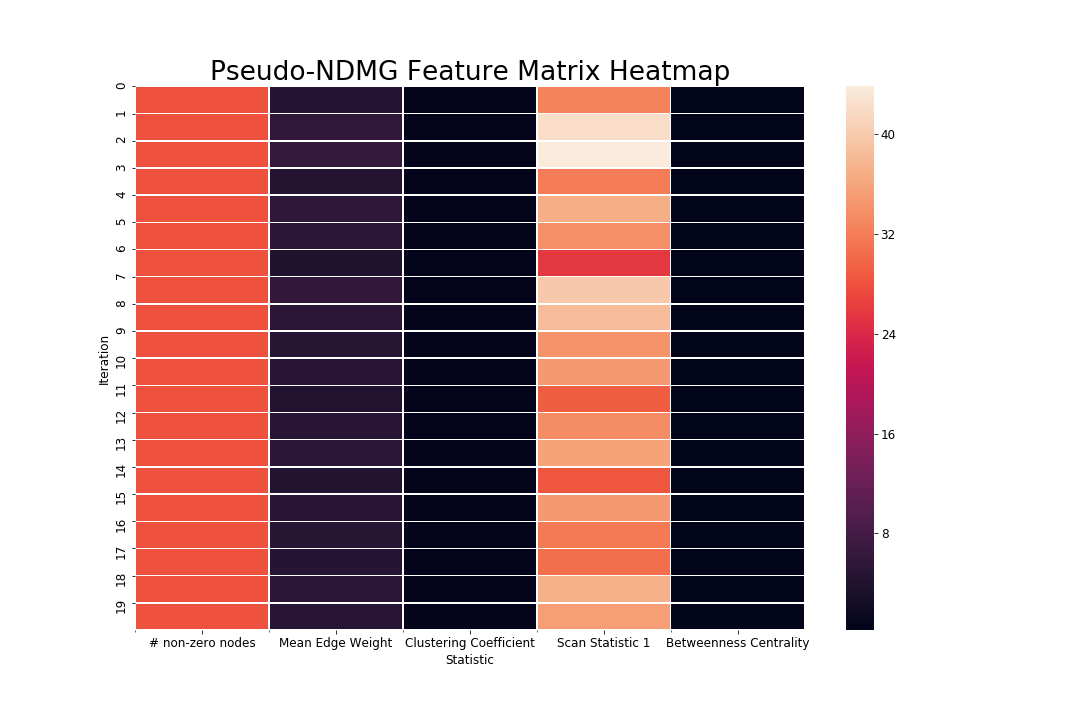
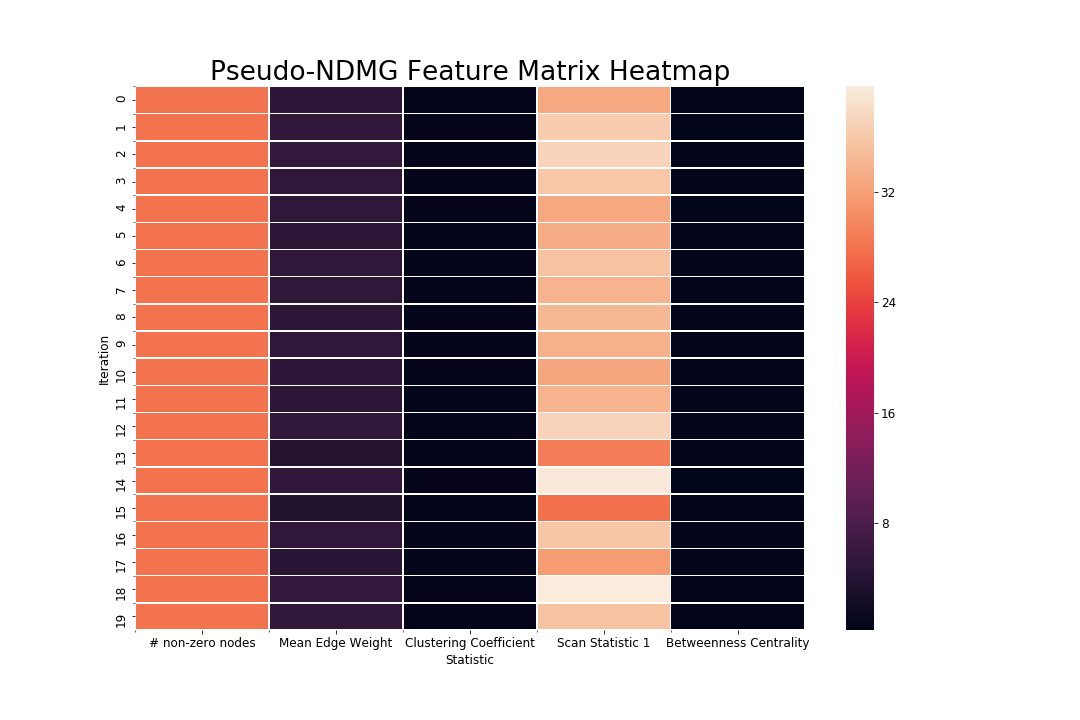
Added GraphStats class

diff --git a/graphStats.py b/graphStats.py
@@ -1,0 +1,243 @@
+#   Ganesh Arvapalli
+#   Create graph statistics class that can calculate common graph statistics
+#   Format graph statistics as numpy array (to be inserted into data matrix)
+#   (https://networkx.github.io/documentation/networkx-1.10/reference/algorithms.html)
+
+import networkx as nx
+import numpy as np
+
+class GraphStats():
+    def __init__(self, g_):
+        if len(g_.nodes()) == 0:
+            print("Empty graph input detected.")
+        else:
+            self.graph = g_
+            self.num_nodes = self.graph.order()
+            self.num_edges = self.graph.size()
+
+    def avg_degree(self):
+        # Average degree of nodes
+        return 1.0*self.num_edges/self.num_nodes
+
+    def max_degree(self):
+        # Maximum degree of graph
+        deg_seq = sorted([d for n, d in self.graph.degree()])
+        return max(deg_seq)
+
+    def avg_neighbor_degree(self):
+        # Average neightbor degree
+        andeg = nx.average_neighbor_degree(self.graph)
+        if len(andeg) != 0:
+            avg_andeg = sum(andeg.values())/len(andeg)
+        return avg_andeg
+
+    # This seems a little redundant compared to max_degree
+    def avg_neighbor_degree(self):
+        # Maximum neightbor degree
+        andeg = nx.average_neighbor_degree(self.graph)
+        if len(andeg) != 0:
+            max_andeg = max(andeg.values())
+        return max_andeg
+
+    def avg_deg_connectivity(self):
+        # Average degree connectivity
+        adc = nx.average_degree_connectivity(self.graph)
+        if len(adc) != 0:
+            avg_adc = sum(adc.values())/len(adc)
+        return avg_adc
+
+    def max_deg_connectivity(self):
+        # Maximum degree connectivity
+        adc = nx.average_degree_connectivity(self.graph)
+        if len(adc) != 0:
+            max_adc = max(adc.values())
+        return max_adc
+
+    def avg_clust_coeff(self):
+        # Average clustering coefficient
+        ccs = nx.clustering(self.graph)
+        if len(ccs) != 0:
+            avg_cc = sum(ccs.values())/len(ccs)
+        return avg_cc
+
+    def max_clust_coeff(self):
+        # Maximum clustering coefficient
+        ccs = nx.clustering(self.graph)
+        if len(ccs) != 0:
+            max_cc = max(ccs.values())
+        return max_cc
+
+    def avg_between_cent(self):
+        # Average Betweenness centrality
+        bet_cen = nx.betweenness_centrality(self.graph)
+        if len(bet_cen) != 0:
+            avg_bc = sum(bet_cen.values())/len(bet_cen)
+        return avg_bc
+
+    def max_between_cent(self):
+        # Maximum Betweenness centrality
+        bet_cen = nx.betweenness_centrality(self.graph)
+        if len(bet_cen) != 0:
+            max_bc = max(bet_cen.values())
+        return max_bc
+
+    def avg_close_cent(self):
+        # Average Closeness centrality
+        clo_cen = nx.closeness_centrality(self.graph)
+        if len(clo_cen) != 0:
+            avg_clc = sum(clo_cen.values())/len(clo_cen)
+        return avg_clc
+    
+    def max_close_cent(self):
+        # Maximum Closeness centrality
+        clo_cen = nx.closeness_centrality(self.graph)
+        if len(clo_cen) != 0:
+            max_clc = max(clo_cen.values())
+        return max_clc
+
+    def avg_eig_cent(self):
+        # Average Eigenvector centrality
+        if len(g.nodes()) != 0:
+            eig_cen = nx.eigenvector_centrality(self.graph)
+            if len(eig_cen) != 0:
+                avg_ec = sum(eig_cen.values())/len(eig_cen)
+        else:
+            print("No nodes in graph: Eig Cen(avg)")
+            avg_ec = 0
+        return avg_ec
+
+    def max_eig_cent(self):
+        # Maximum Eigenvector centrality
+        if len(g.nodes()) != 0:
+            eig_cen = nx.eigenvector_centrality(self.graph)
+            if len(eig_cen) != 0:
+                max_ec = max(eig_cen.values())
+        else:
+            print("No nodes in graph: Eig Cen(max)")
+            max_ec = 0
+        return max_ec
+
+    def estrada_index(self):
+        # Estrada Index
+        ei = nx.estrada_index(self.graph)
+        return ei
+
+    # This one could be worth scrapping
+    def dispersion(self):
+        # Dispersion
+        dis = nx.dispersion(self.graph)
+        total = 0
+        for i in dis.values():
+            if len(i.values()) != 0:
+                total += sum(i.values())/len(i.values())
+        return total
+
+    def avg_num_cliques(self):
+        # Average number of cliques
+        nc = nx.number_of_cliques(self.graph)
+        if len(nc) != 0:
+            avg_nc = sum(nc.values())/len(nc)
+        return avg_nc
+
+    def max_num_cliques(self):
+        # Average number of cliques
+        nc = nx.number_of_cliques(self.graph)
+        if len(nc) != 0:
+            max_nc = max(nc.values())
+        return max_nc
+
+    def radius(self):
+        # Radius (min ecc)
+        if nx.is_connected(self.graph):
+            r = nx.radius(self.graph)
+        else:
+            r = 0
+        return r
+
+    def avg_ecc(self):
+        # Average Eccentricity
+        if nx.is_connected(self.graph):
+            e = nx.eccentricity(self.graph)
+            if len(e) != 0:
+                avg_e = sum(e.values())/len(e)
+        else:
+            avg_e = 0
+        return avg_e
+    
+    def diameter(self):
+        # Diameter (max ecc)
+        if nx.is_connected(self.graph):
+            d = nx.diameter(self.graph)
+        else:
+            d = 0
+        return d
+
+    def num_isolates(self):
+        return len(list(nx.isolates(self.graph)))
+
+    def avg_shortest_path(self):
+        # Shortest path length:
+        if nx.is_connected(self.graph):
+            avg_spl = nx.average_shortest_path_length(self.graph)
+        else:
+            avg_spl = 0
+        return avg_spl
+
+    # rad = radius of scan statistic neighborhood
+    def scan_statistic(self, rad):
+        tmp = np.array(())
+        for n in self.graph.nodes():
+            sg = nx.ego_graph(self.graph, n, radius=i)
+            tmp = np.append(tmp, np.sum([sg.get_edge_data(e[0], e[1])['weight']
+                            for e in sg.edges()]))
+        return np.max(tmp)
+
+    def return_stats(self):
+        stats = [self.avg_degree(), 
+                self.max_degree(),
+                self.avg_neighbor_degree(),
+                self.avg_neighbor_degree(),
+                self.avg_deg_connectivity(),
+                self.max_deg_connectivity(),
+                self.avg_clust_coeff(),
+                self.max_clust_coeff(),
+                self.avg_between_cent(),
+                self.max_between_cent(),
+                self.avg_close_cent(),
+                self.max_close_cent(),
+                self.avg_eig_cent(),
+                self.max_eig_cent(),
+                self.estrada_index(),
+                self.dispersion(),
+                self.avg_num_cliques(),
+                self.max_num_cliques(),
+                self.radius(),
+                self.avg_ecc(),
+                self.diameter(),
+                self.num_isolates(),
+                self.avg_shortest_path()]
+        stats = [float(i) for i in stats]
+
+        return np.array(stats)
+
+    # Extra stats that didn't get implemented cause they seemed to cause issues
+    # Communicability
+    #   t = time.time()
+    #   cmb = nx.communicability(g)
+    #   total = 0
+    #   for i in cmb.values():
+    #     if len(i.values()) != 0:
+    #       total += sum(i.values())/len(i.values())
+    #   print("Communicability:", total, "took", round(time.time() - t, 3), "seconds")
+
+    # Chordality
+    #   if len(list(g.nodes_with_selfloops())) == 0:
+    #     if nx.is_chordal(g):
+    #       chordal = 1
+    #   else:
+    #     chordal = 0
+
+    # Closeness vitality
+    #   cv = nx.closeness_vitality(g)
+    #   if len(cv) != 0:
+    #     avg_cv = sum(cv.values())/len(cv)
